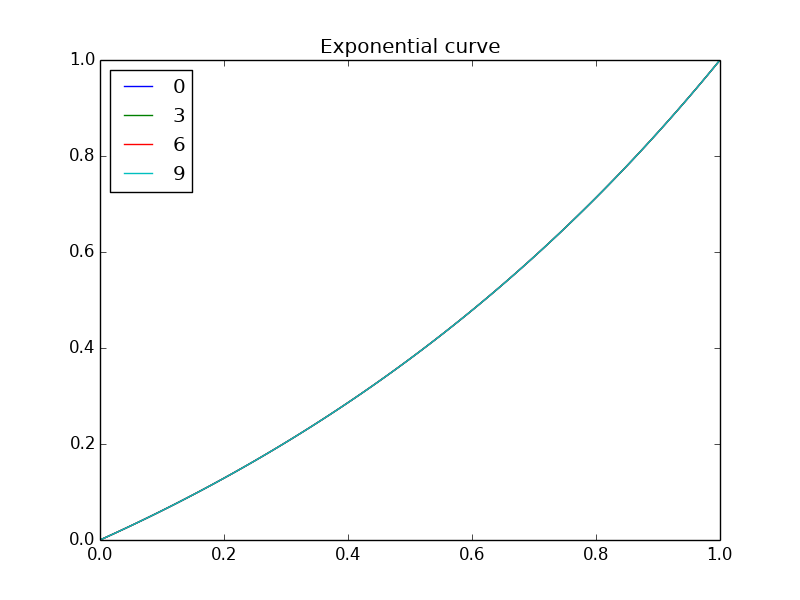
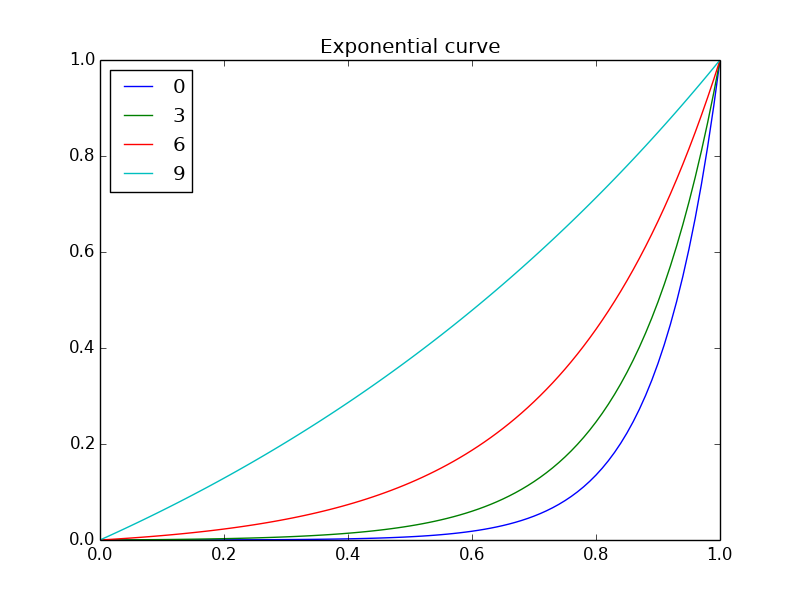
Exponential curve now has sensitivity setting.

diff --git a/joy_curve_notes/plot_curves.py b/joy_curve_notes/plot_curves.py
@@ -39,7 +39,7 @@ def herra_wide(x, s):
 
 
 def exponential(x, s):
-    out = (np.exp(x)-1)/(np.exp(1)-1)
+    out = (np.exp((10-s)*x)-1)/(np.exp(10-s)-1)
     return out
 
 

diff --git a/joy_curve_notes/new_curves.md b/joy_curve_notes/new_curves.md
@@ -43,9 +43,9 @@ Alternatively, a wider range of curves can be achieved by a small change in the 
 ### Exponential curve
 `-joystick_curves 4`
 
-    f(I) = (exp(I)-1)/(exp(1)-1)
+    f(I) = (exp((10-s)*I)-1)/(exp(10-s)-1)
 
-NB: Ignores sensitivity setting.
+NB: Does not become linear at `s=9`
 
 ![Exponential curve](exponential.png "Exponential curve")
 
@@ -80,5 +80,5 @@ List of symbols
 ===============
 
     I    : input percent (position of joystick on half-axis).
-    s    : in-game sensitivity setting [0..9].
+    s    : in-game sensitivity setting [0..9], where 0 corresponds to 1 sensitivity dot and 9 corresponds to 10 dots.
     f(I) : translation of input percent to output (the result of the curve function).
